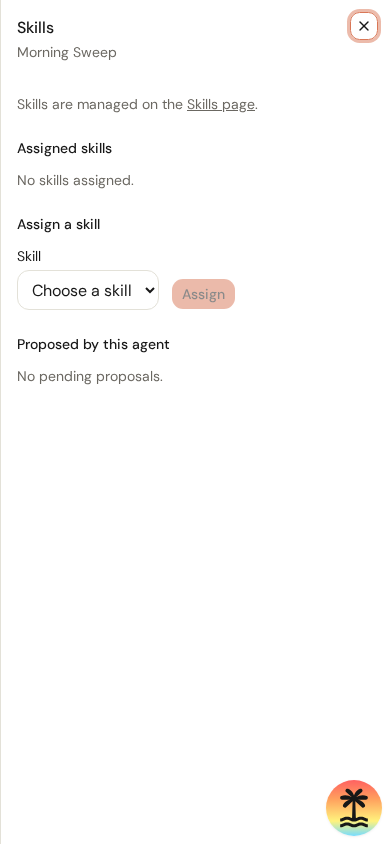
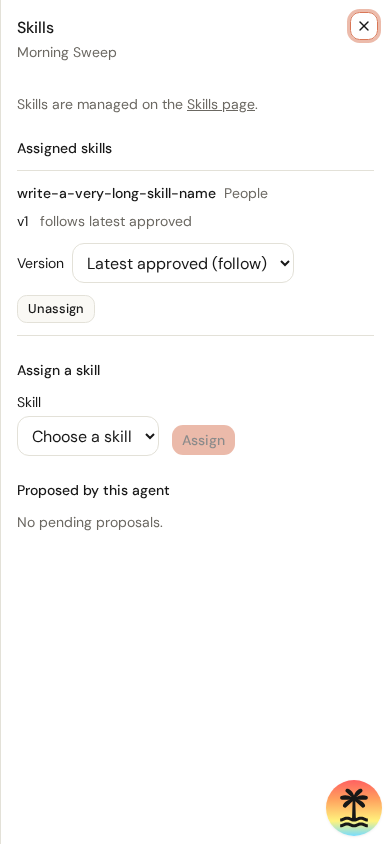
MB.3: review round 1 fixes
Claude-Session: https://claude.ai/code/session_012Zvfj7oSNZmirvs3Rh8SbU

diff --git a/apps/web/src/components/agent/profile/profile-rows.tsx b/apps/web/src/components/agent/profile/profile-rows.tsx
@@ -24,6 +24,9 @@ import { Row } from "./profile-row.tsx";
 import type { SheetId } from "./sheet-ids.ts";
 import { VoiceField } from "./voice-field.tsx";
 
+/** Characters that can overflow four lines on a 360px phone. */
+const LONG_DOES = 150;
+
 /** The instruction text, clamped to four lines. On phones a toggle shows all of it. */
 function DoesText({ does }: { does: string }) {
   const [expanded, setExpanded] = useState(false);
@@ -34,19 +37,21 @@ function DoesText({ does }: { does: string }) {
   return (
     <>
       <p
-        className={`whitespace-pre-line [overflow-wrap:anywhere] ${expanded ? "" : "line-clamp-4"}`}
+        className={`whitespace-pre-line max-md:[overflow-wrap:anywhere] ${expanded ? "" : "line-clamp-4"}`}
         data-testid="profile-does"
       >
         {does}
       </p>
-      <button
-        aria-expanded={expanded}
-        className="mt-1 text-primary text-xs hover:underline md:hidden"
-        onClick={toggle}
-        type="button"
-      >
-        {expanded ? "Show less" : "Show more"}
-      </button>
+      {does.length > LONG_DOES || does.split("\n").length > 4 ? (
+        <button
+          aria-expanded={expanded}
+          className="mt-1 text-primary text-xs hover:underline md:hidden"
+          onClick={toggle}
+          type="button"
+        >
+          {expanded ? "Show less" : "Show more"}
+        </button>
+      ) : null}
     </>
   );
 }

diff --git a/apps/web/src/components/agent/agent-form.tsx b/apps/web/src/components/agent/agent-form.tsx
@@ -433,7 +433,7 @@ export function AgentForm({
           {error}
         </p>
       )}
-      <div className="sticky -bottom-6 z-10 -mx-4 flex flex-wrap items-center gap-2 border-border border-t bg-background px-4 pt-3 pb-9 md:static md:mx-0 md:border-t-0 md:bg-transparent md:p-0">
+      <div className="sticky -bottom-6 z-10 -mx-4 flex flex-wrap items-center gap-2 border-border border-t bg-background px-4 pt-3 pb-9 md:contents">
         <Button disabled={pending} type="submit">
           {submitLabel}
         </Button>

diff --git a/apps/web/src/components/agent/profile/chip-list.tsx b/apps/web/src/components/agent/profile/chip-list.tsx
@@ -8,7 +8,7 @@ export const TONE_CLASS: Record<Chip["tone"], string> = {
 };
 
 export const CHIP_CLASS =
-  "inline-flex max-w-full items-center gap-1.5 whitespace-normal [overflow-wrap:anywhere] rounded-full border px-2.5 py-0.5 text-xs md:whitespace-nowrap";
+  "inline-flex items-center gap-1.5 whitespace-normal max-md:max-w-full max-md:[overflow-wrap:anywhere] rounded-full border px-2.5 py-0.5 text-xs md:whitespace-nowrap";
 
 /** A row of chips, then the action that opens the manage sheet. */
 export function ChipList({

diff --git a/apps/web/src/components/agent/profile/library-row.tsx b/apps/web/src/components/agent/profile/library-row.tsx
@@ -18,7 +18,7 @@ import { folderLabel, LIBRARY_NOTE, WIKI_LABEL } from "./profile-logic.ts";
 function PathText({ path }: { path: string }) {
   const parts = path.split("/");
   return (
-    <span className="min-w-0 break-words font-mono text-xs">
+    <span className="font-mono text-xs max-md:min-w-0 max-md:break-words">
       {parts.map((part, index) => (
         // biome-ignore lint/suspicious/noArrayIndexKey: path segments repeat and never reorder
         <span key={index}>

diff --git a/apps/web/src/components/agent/profile/ask-before-card.tsx b/apps/web/src/components/agent/profile/ask-before-card.tsx
@@ -137,7 +137,7 @@ export function AskBeforeCard({
         <span className="min-w-0 text-sm">
           Emails someone outside the workspace: always asks
         </span>
-        <span className="shrink-0 whitespace-nowrap text-muted-foreground text-xs">
+        <span className="text-muted-foreground text-xs max-md:shrink-0 max-md:whitespace-nowrap">
           Always
         </span>
       </div>

diff --git a/docs/reviews/tasks/MB.3.md b/docs/reviews/tasks/MB.3.md
@@ -1,6 +1,6 @@
 # MB.3 review: mobile agent profile and its sheets
 
-Status: in progress (checks pass, reviewer pending).
+Status: round 2 review pending.
 
 ## Fixes
 - F-04: chips wrap (`whitespace-normal`, break anywhere) below md and keep `nowrap` at md and up. Docwidth is 390 at 390 and 360 at 360.
@@ -11,4 +11,7 @@ Status: in progress (checks pass, reviewer pending).
 - F-09: sheets are full width through MB.1's rule; no element in any sheet overflows 390px. The Skills version select is `max-w-full min-w-0` and 40px high on phones. The secrets and routines tables were handled by MB.2.
 
 ## Browser check
-Local dev server with dev login, two test agents created through tRPC. Screenshots in `docs/reviews/tasks/MB.3-shots/`: `p390.png` (profile), `sheet-{edit,tools,skills,hands,starts}-390.png`, `profile-1280.png`, `sheet-edit-1280.png`. Not exercised: the Skills version select with an assigned skill (no skills in the local database), a long schedule chip (no routine created).
+Local dev server with dev login, two test agents created through tRPC. Screenshots in `docs/reviews/tasks/MB.3-shots/`: `p390.png` (profile), `sheet-{edit,tools,skills,hands,starts}-390.png`, `profile-1280.png`, `sheet-edit-1280.png`. Round 2 added `sheet-mail-390.png`, `sheet-skills-390.png` (with an assigned skill: the Version select stays inside the sheet, no element past 390px) and 1280 shots of Skills, Hands to and Edit. Mail sheet: no overflow at 390. Not exercised: a long schedule chip (no routine created).
+
+## Round 1
+Must-fix: Save changes lost its full width at md (sticky wrapper), Mail sheet and Skills select unchecked. Fixed with `md:contents` on the wrapper and the checks above. Also scoped the wrap and break classes to below md so desktop is unchanged, and "Show more" shows only for long text.
